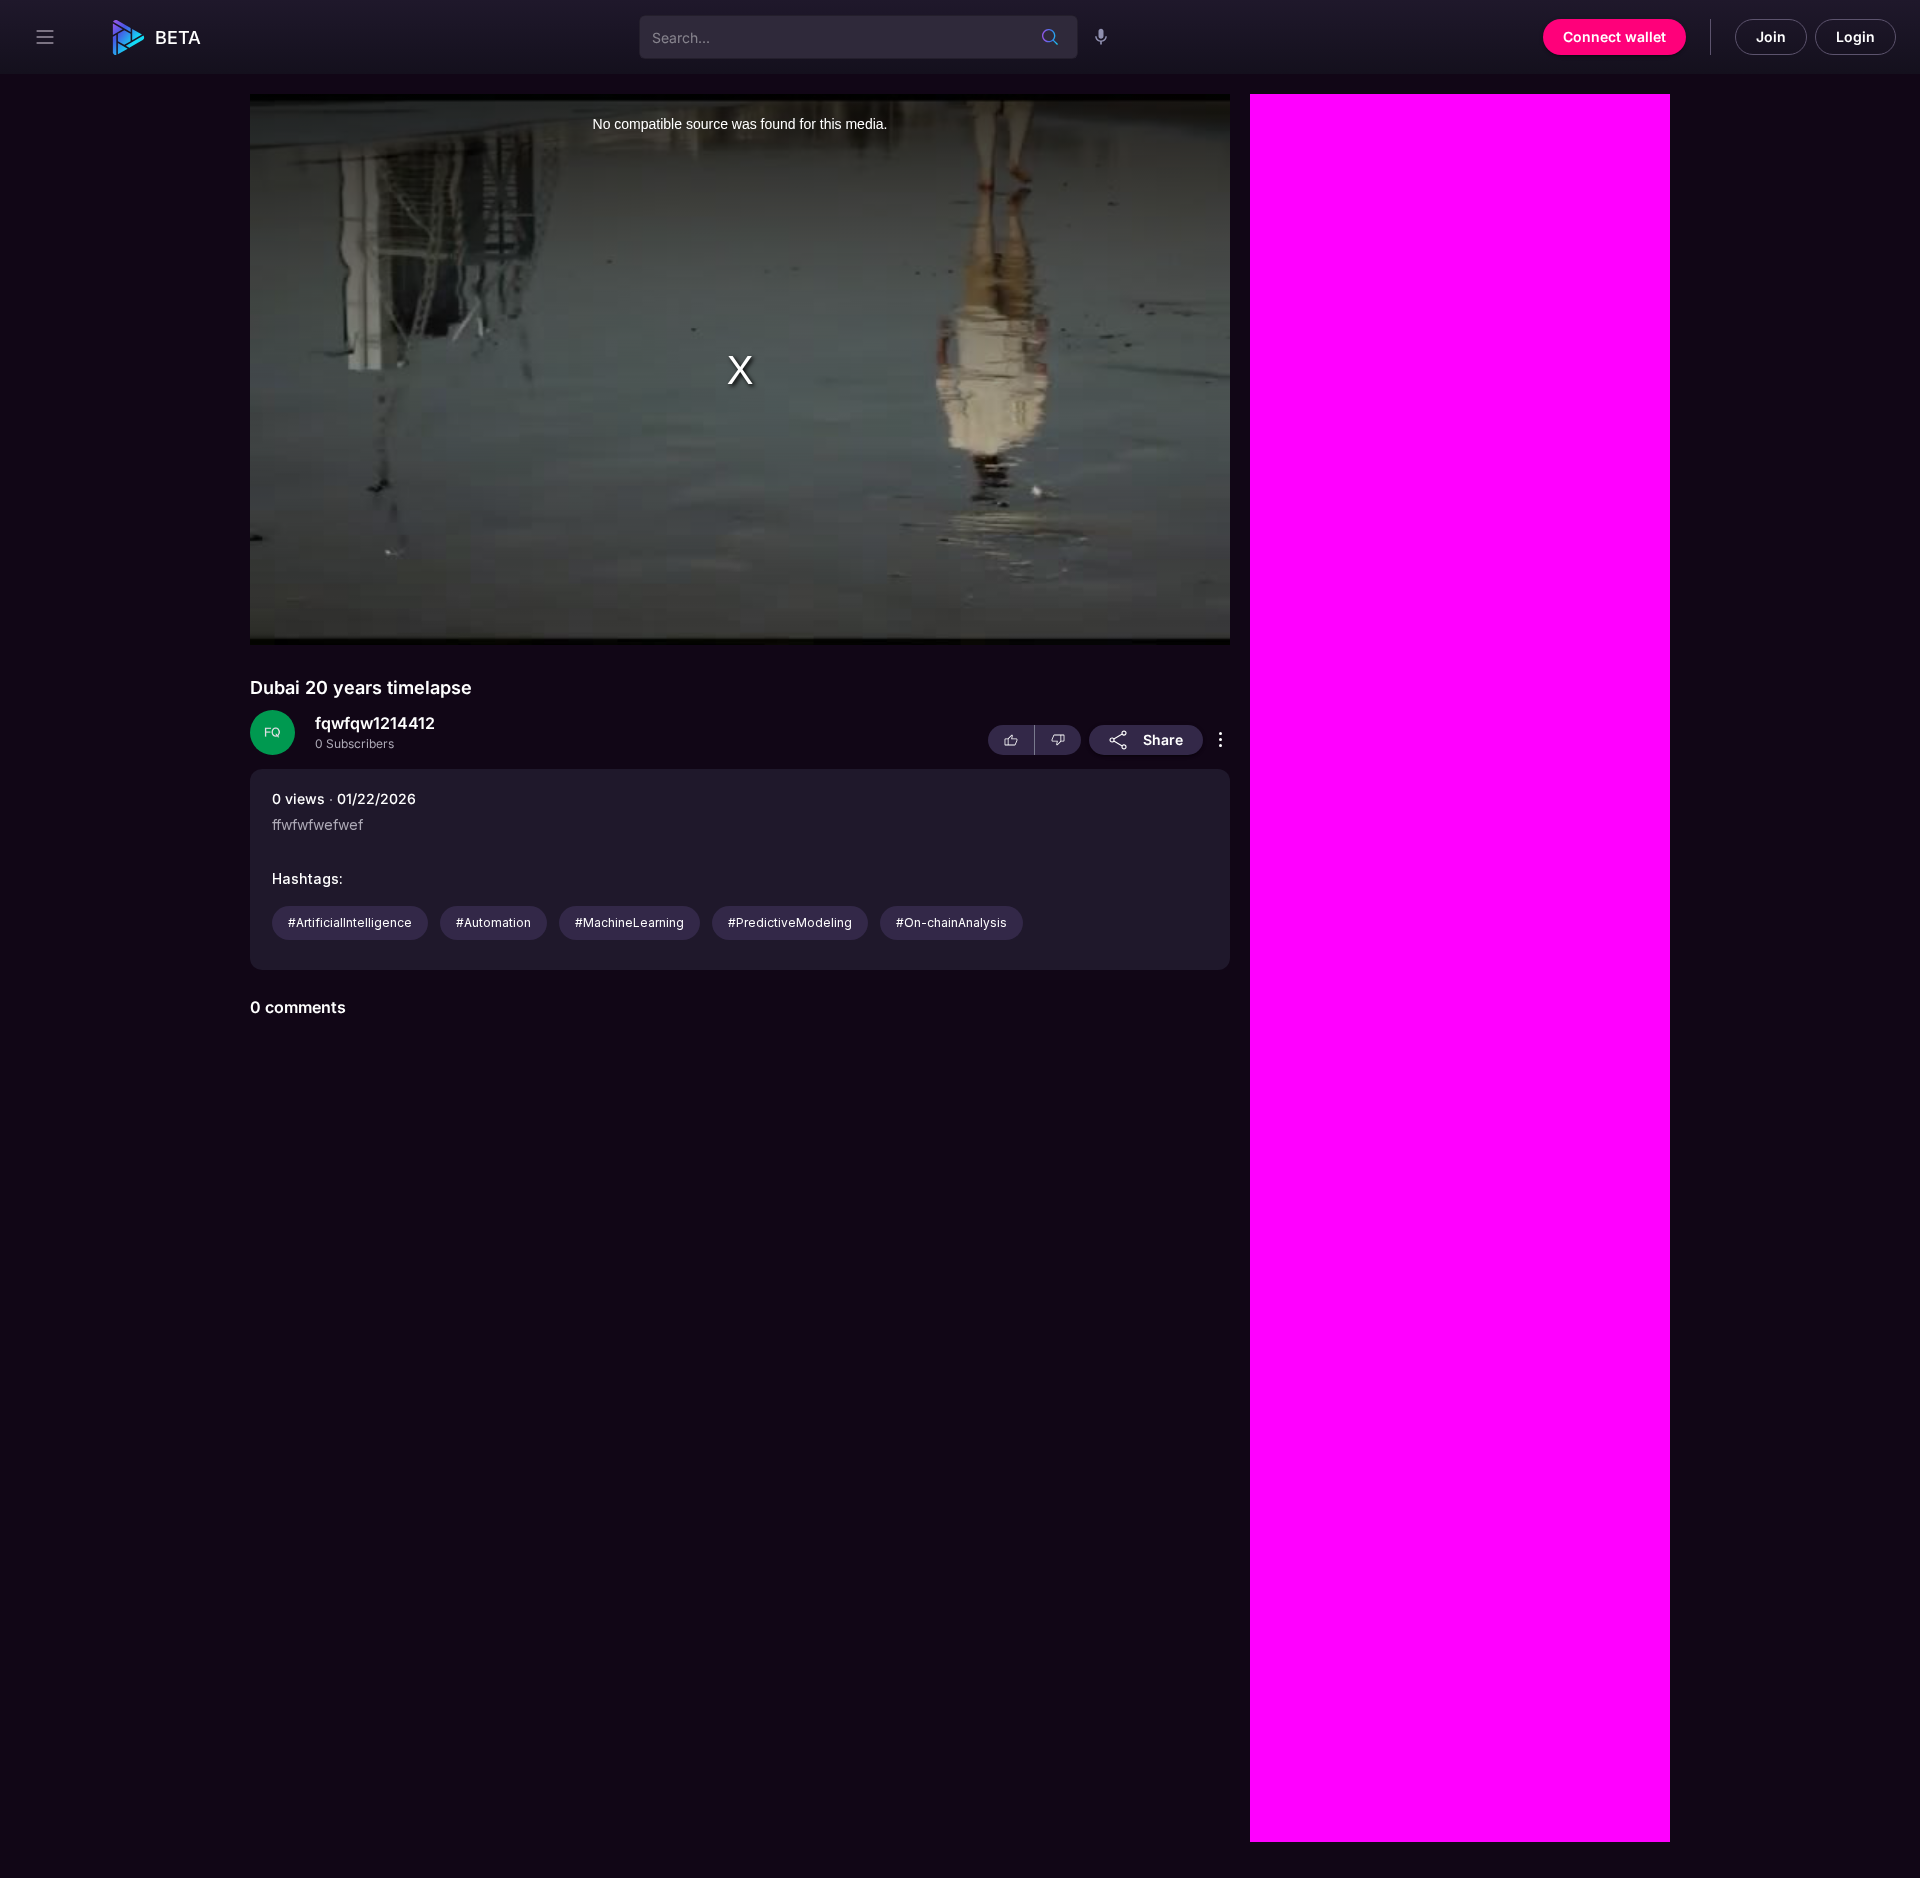
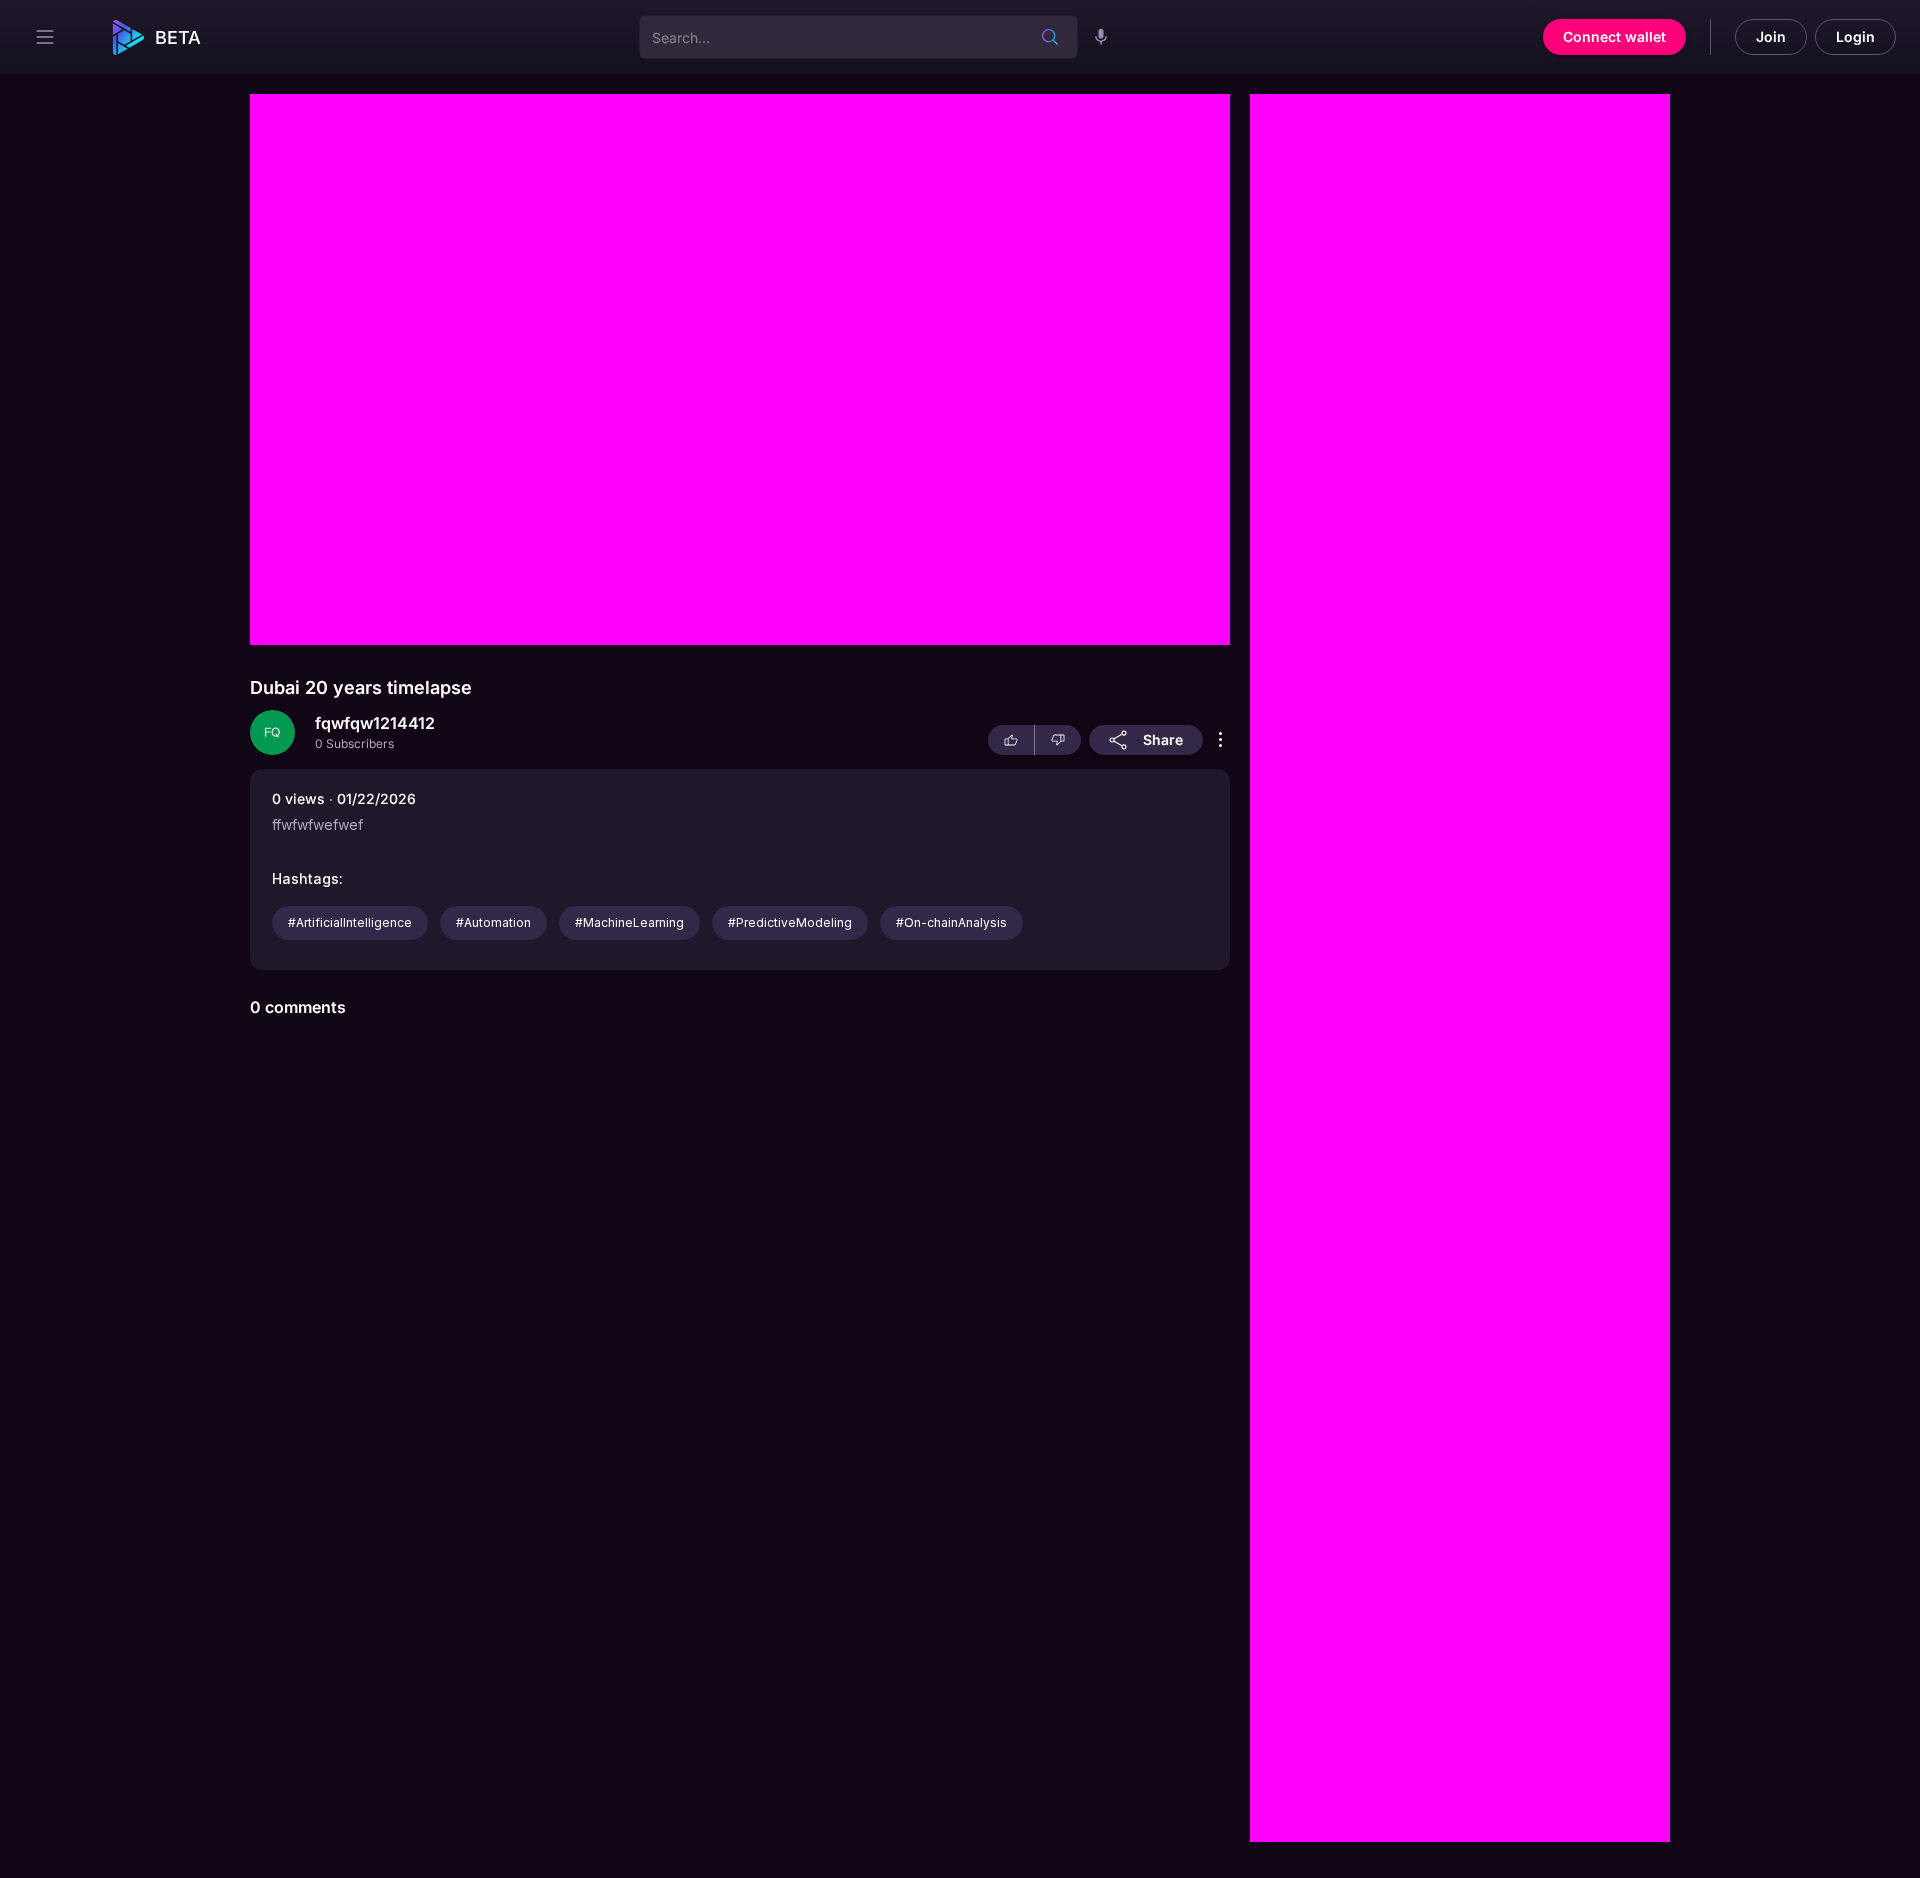
update_snapshots

Changed region(s): [[0.125, 0.0309, 0.6562, 0.3706]]

diff --git a/tests/visualSuite/desktop/visiualSuites.spec.ts b/tests/visualSuite/desktop/visiualSuites.spec.ts
@@ -86,7 +86,8 @@ test.describe('Video page visual tests', () => {
         await expect(page).toHaveScreenshot({
             fullPage: true,
             mask: [
-                page.locator('[data-id="recommended-videos"]')
+                page.locator('[data-id="recommended-videos"]'),
+                page.locator('[aria-label="Video Player"]')
             ]
         });
     });
@@ -107,7 +108,8 @@ test.describe('Video page visual tests', () => {
         await expect(page).toHaveScreenshot({
             fullPage: true,
             mask: [
-                page.locator('[data-id="recommended-videos"]')
+                page.locator('[data-id="recommended-videos"]'),
+                page.locator('[aria-label="Video Player"]')
             ]
         });
        